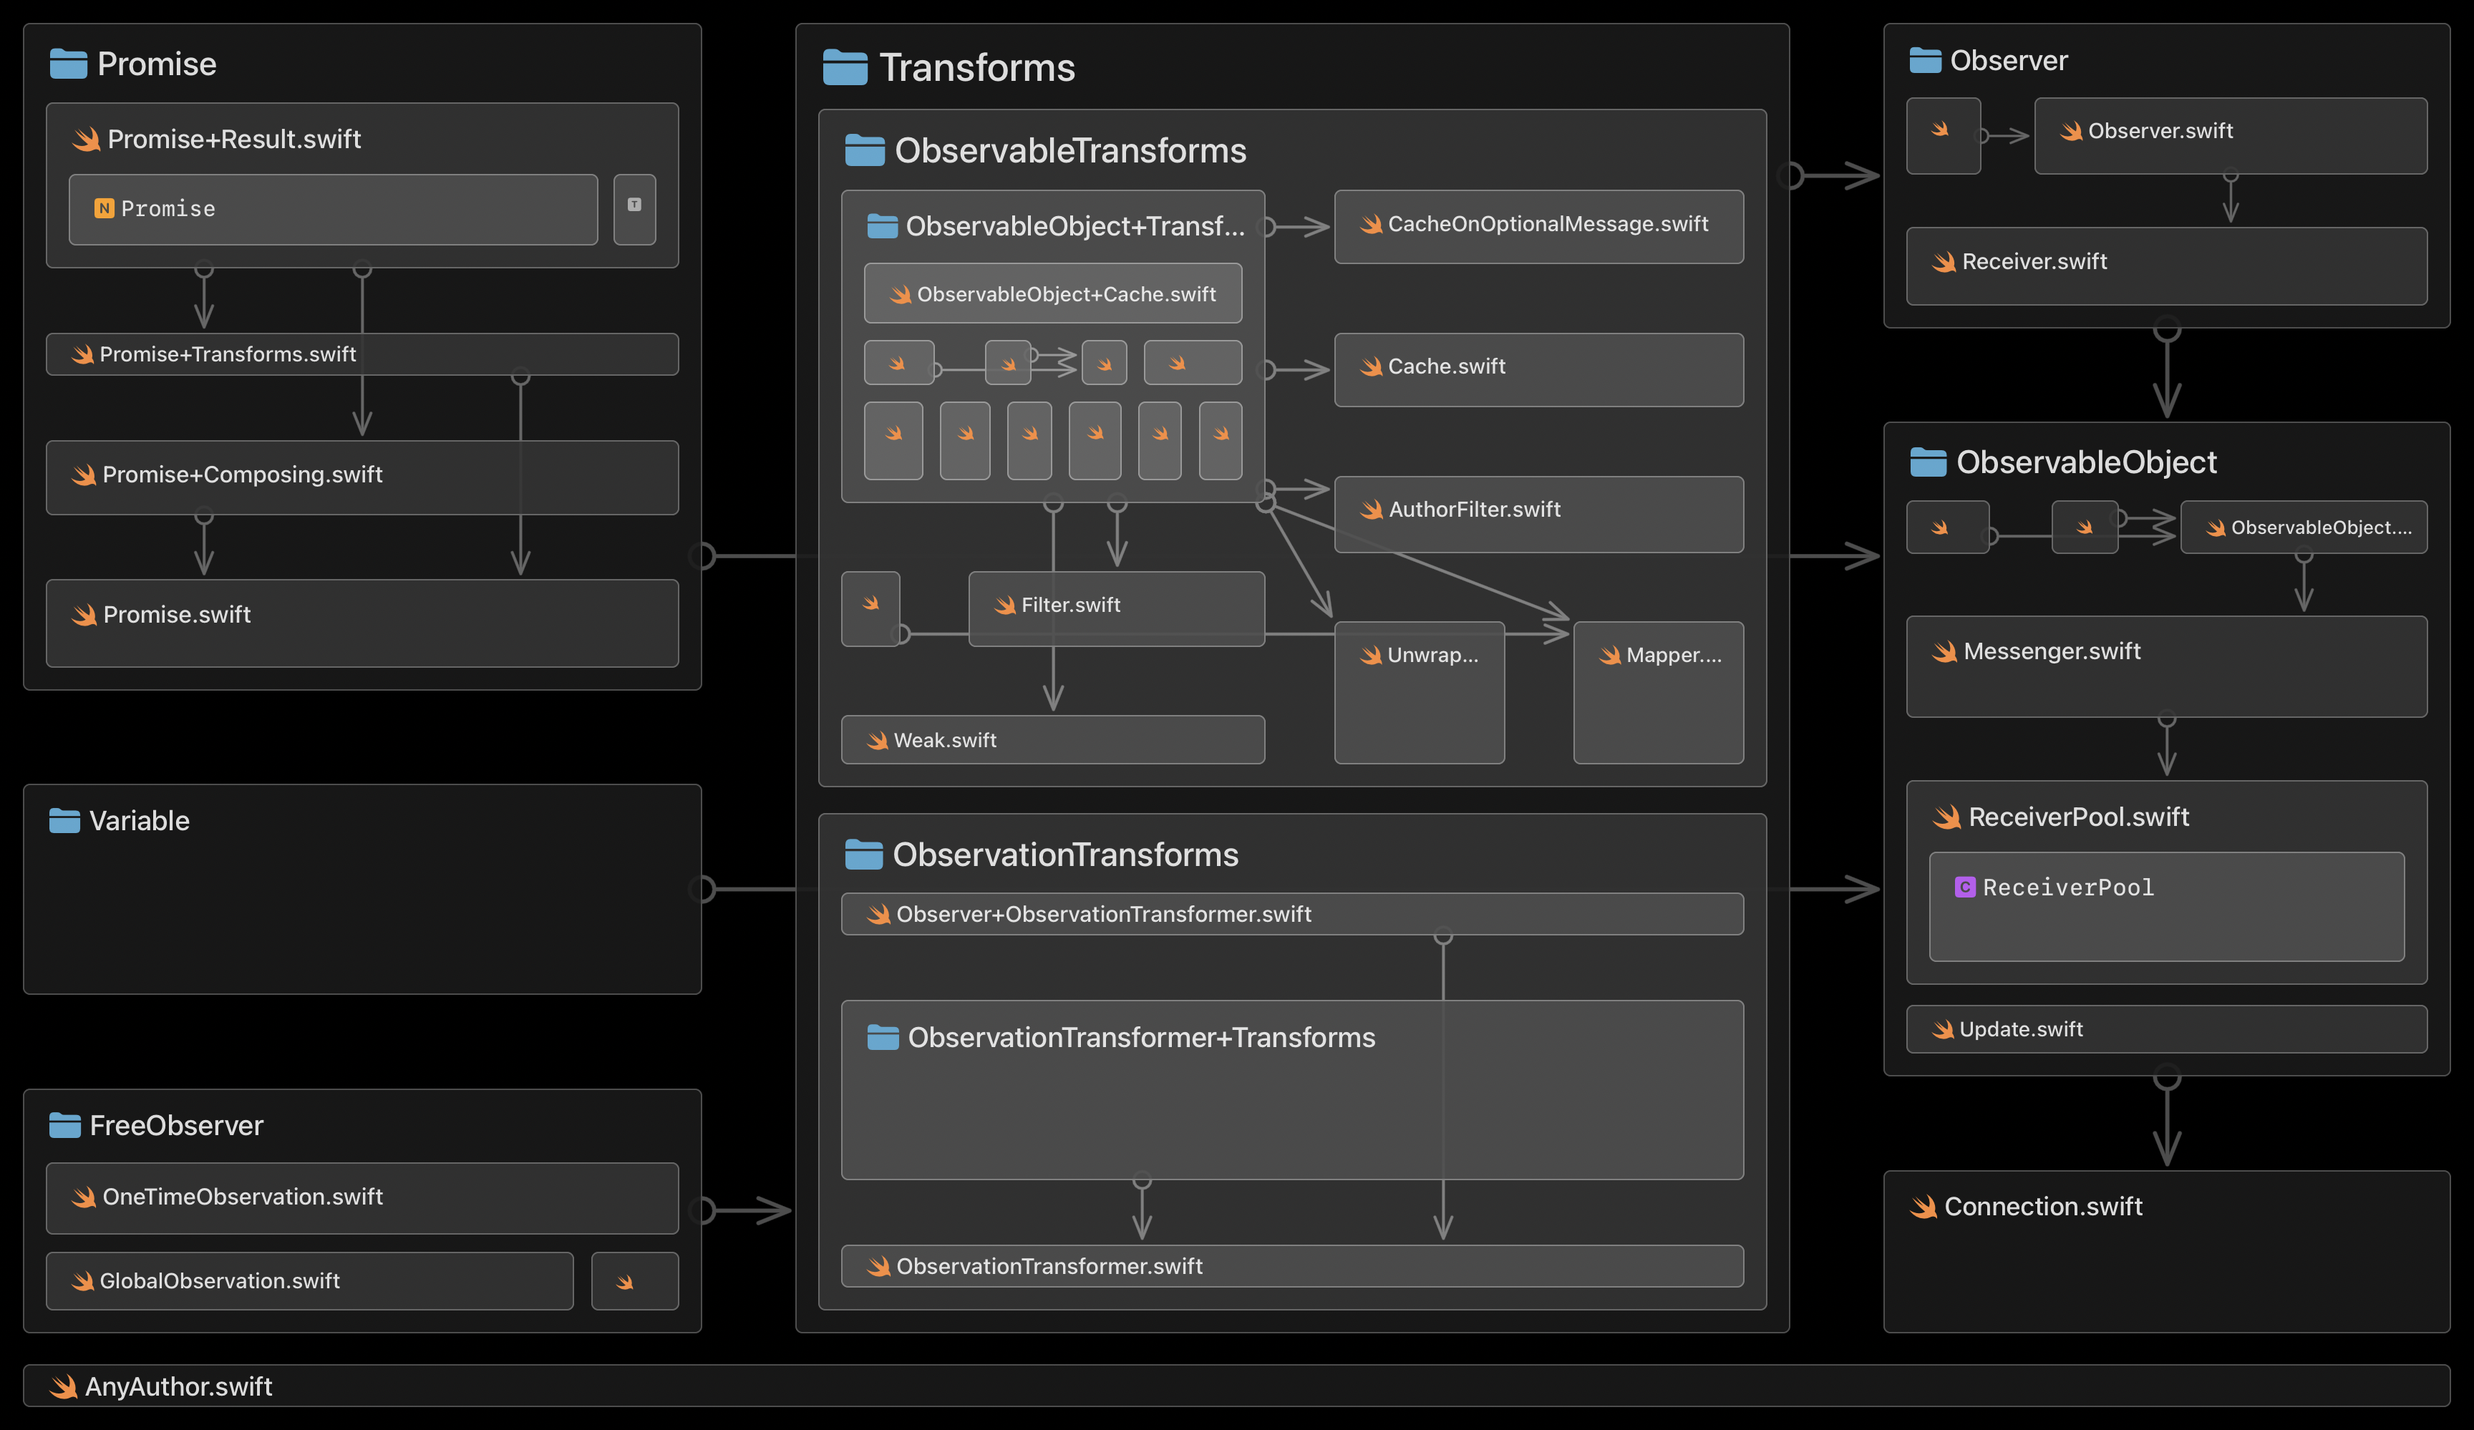
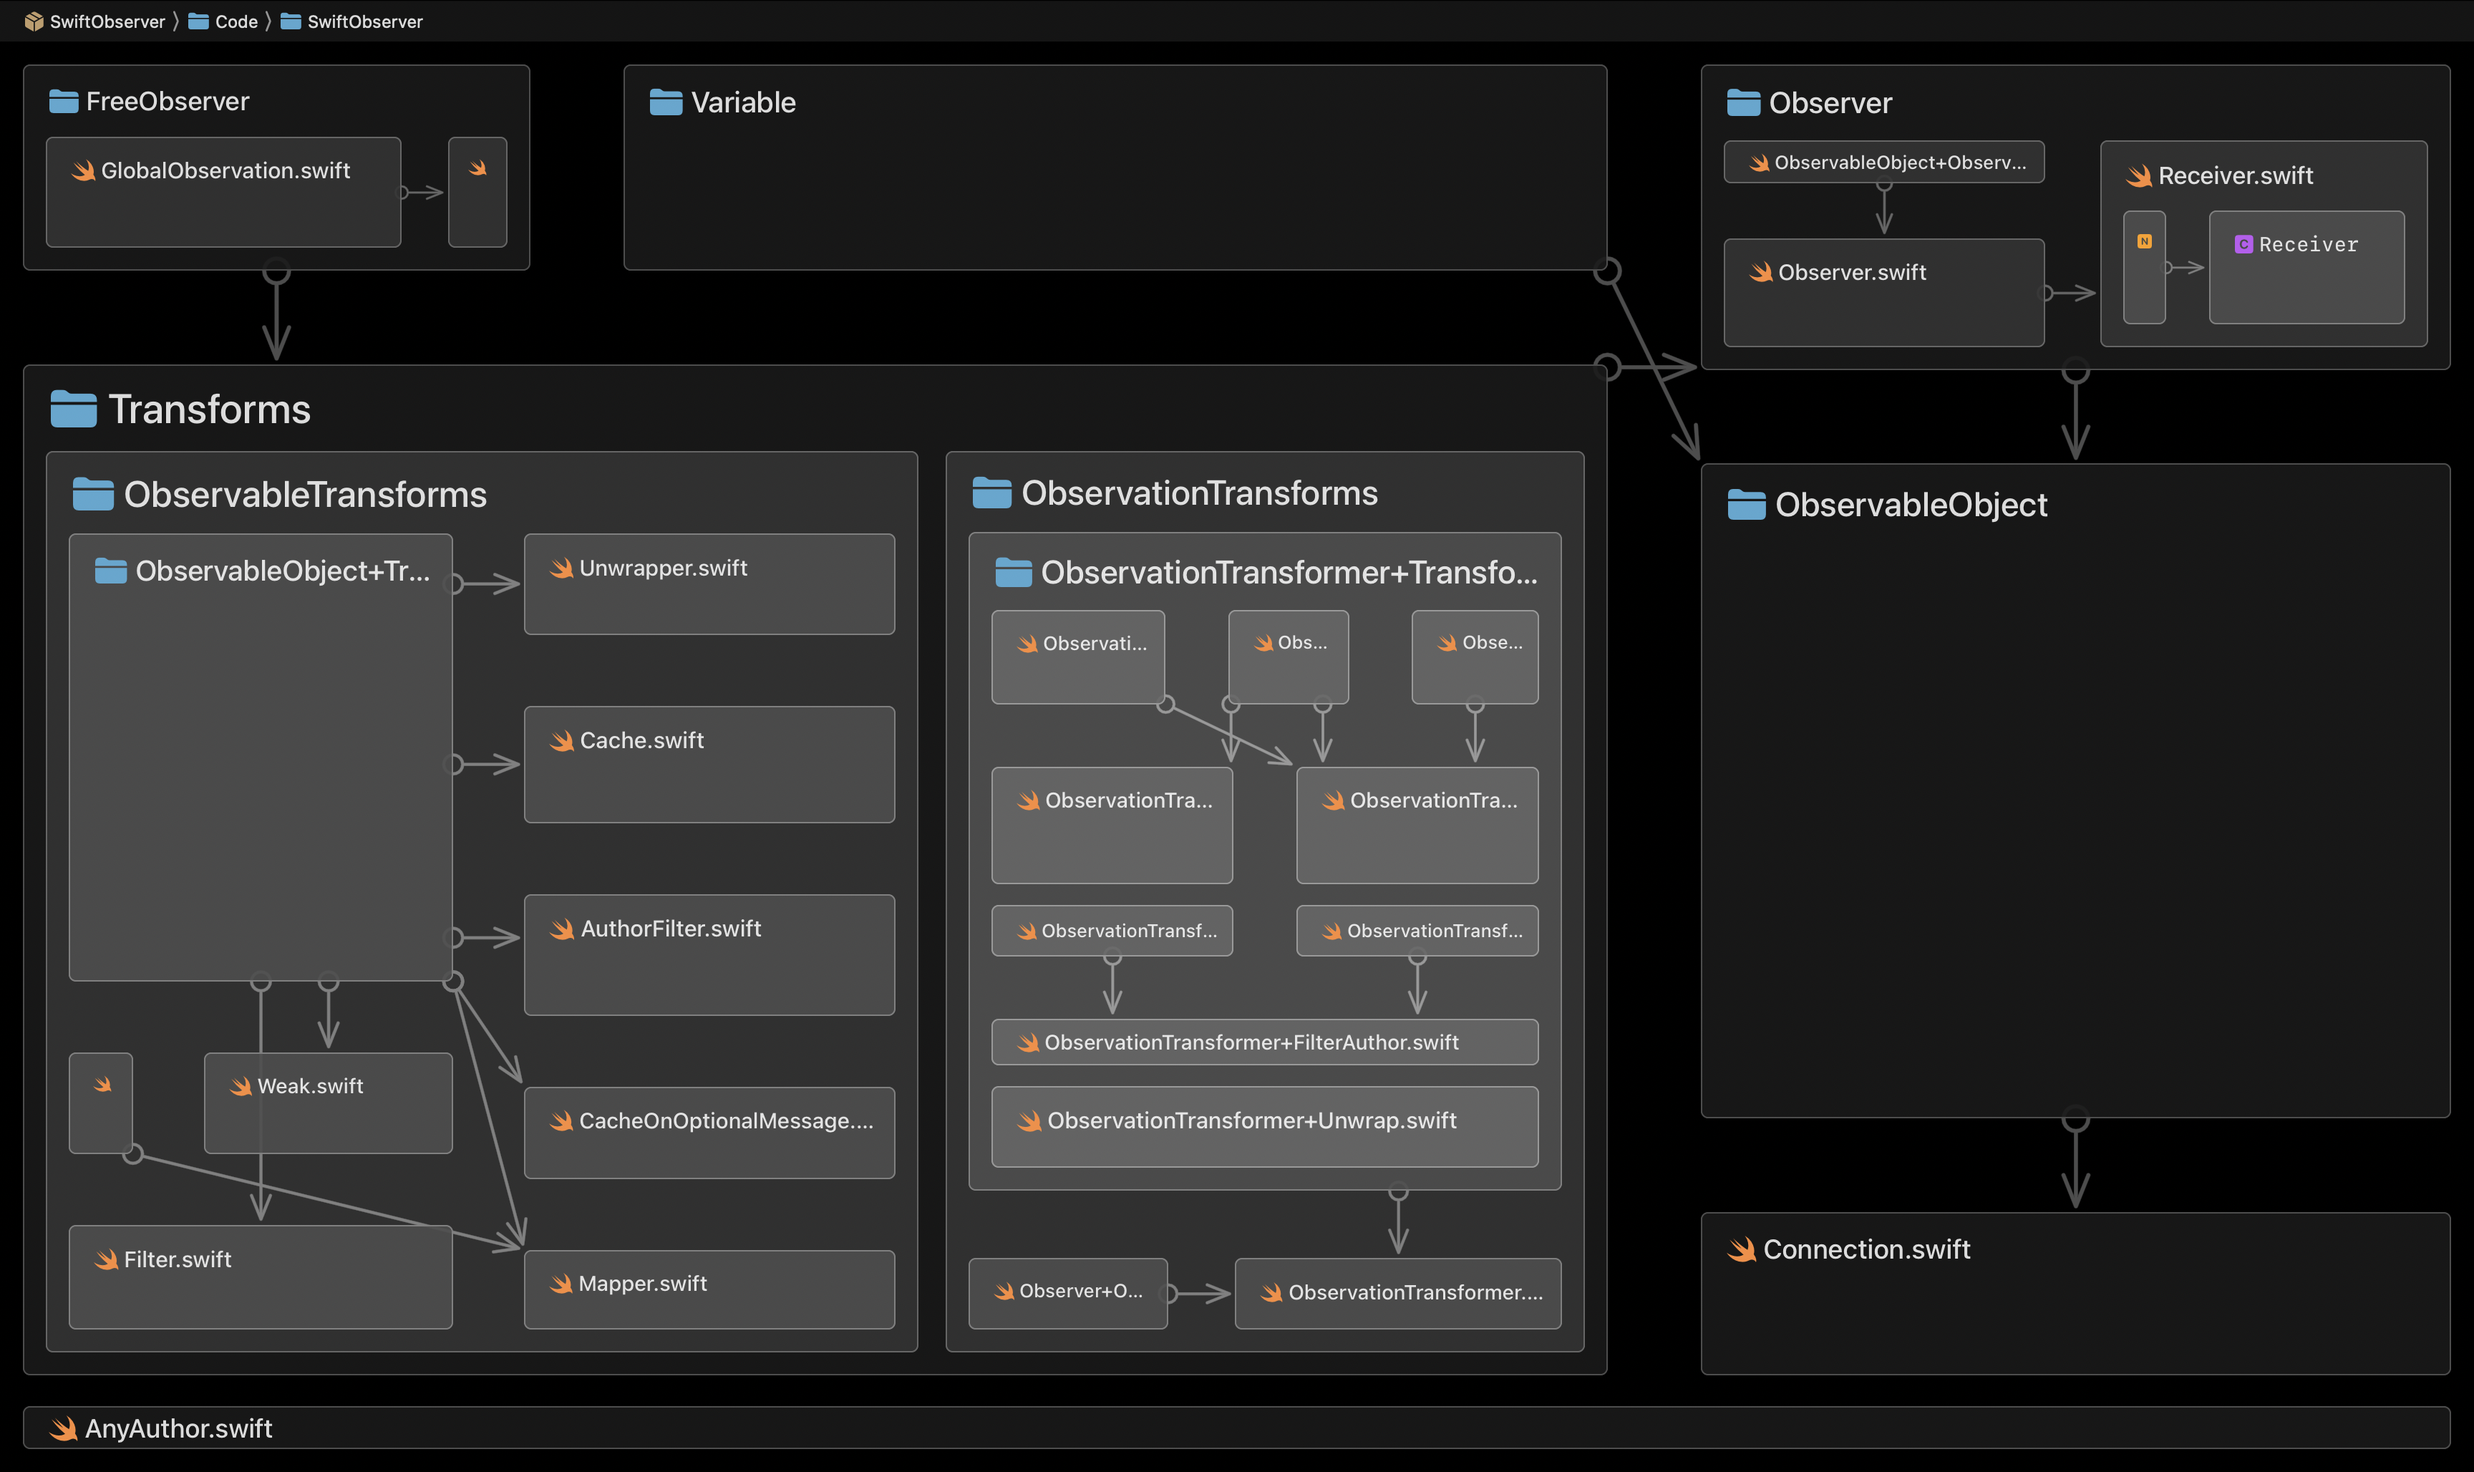
Update architecture documentation

diff --git a/Documentation/Architecture/architecture.md b/Documentation/Architecture/architecture.md
@@ -6,10 +6,6 @@ The following diagrams show the internal architecture (composition and dependenc
 
 ![](SwiftObserver.png)
 
-## Promise
-
-![](Promise.png)
-
 ## FreeObserver
 
 ![](FreeObserver.png)
